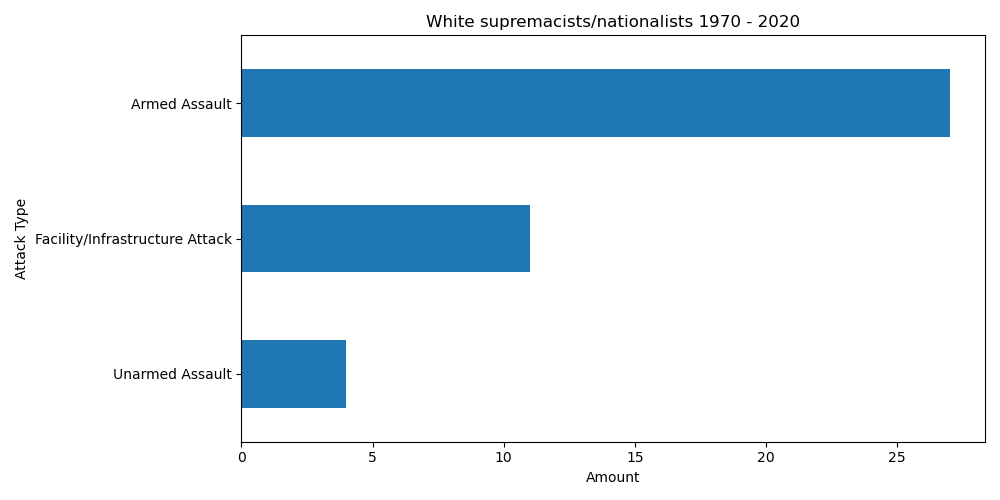
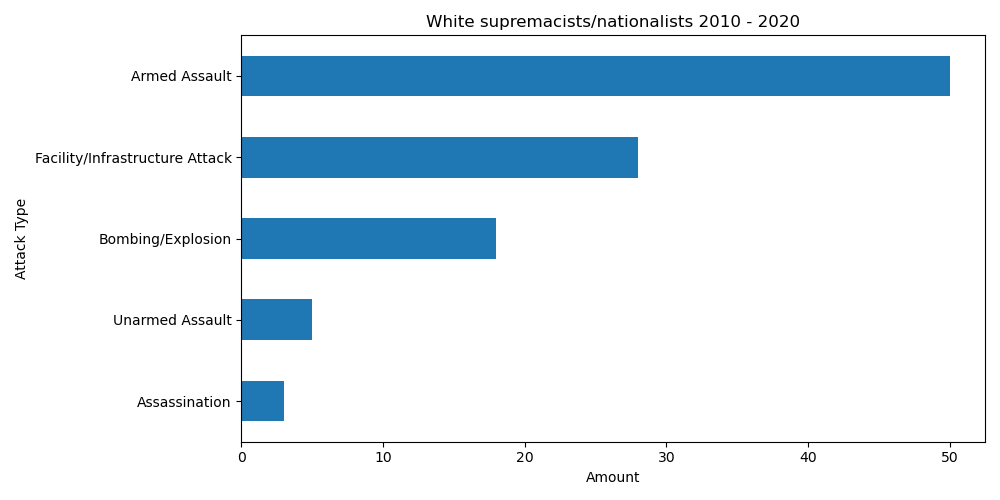
created 1970 timeline for modern groups for context

diff --git a/src/main.py b/src/main.py
@@ -57,6 +57,13 @@ if __name__ == "__main__":
     hp.create_timeline(top_modern_timeline, groups, name="mod_timeline",
                        title="Activity over time (2010 - 2020)")
 
+    # create full timeline for modern groups timeline for 1970 - 2020
+    query = usa_df["gname"].isin(groups) & (
+        ((usa_df["doubtterr"] == 0) | (usa_df["doubtterr"] == -9)))
+    hp.create_timeline(usa_df[query].groupby(["gname", "year"])[
+        "year"].count(), groups, name="mod_timeline_1970",
+        title="Activity over time (1970 - 2020)")
+
     # most used attack type from 1970 - 2020
     attacks = top_5_df.groupby("attacktype1_txt").size().sort_values()
 
@@ -83,7 +90,7 @@ if __name__ == "__main__":
         name = group.split("/")[0]
         df = types_per_group[group].sort_values()
         hp.create_bar_plot(
-            df, title=f"{group} 1970 - 2020", ylabel="Attack Type", xlabel="Amount",
+            df, title=f"{group} 2010 - 2020", ylabel="Attack Type", xlabel="Amount",
             name=f"mod_{name}")
 
     # Found top 10 targets from 1970 - 2020
